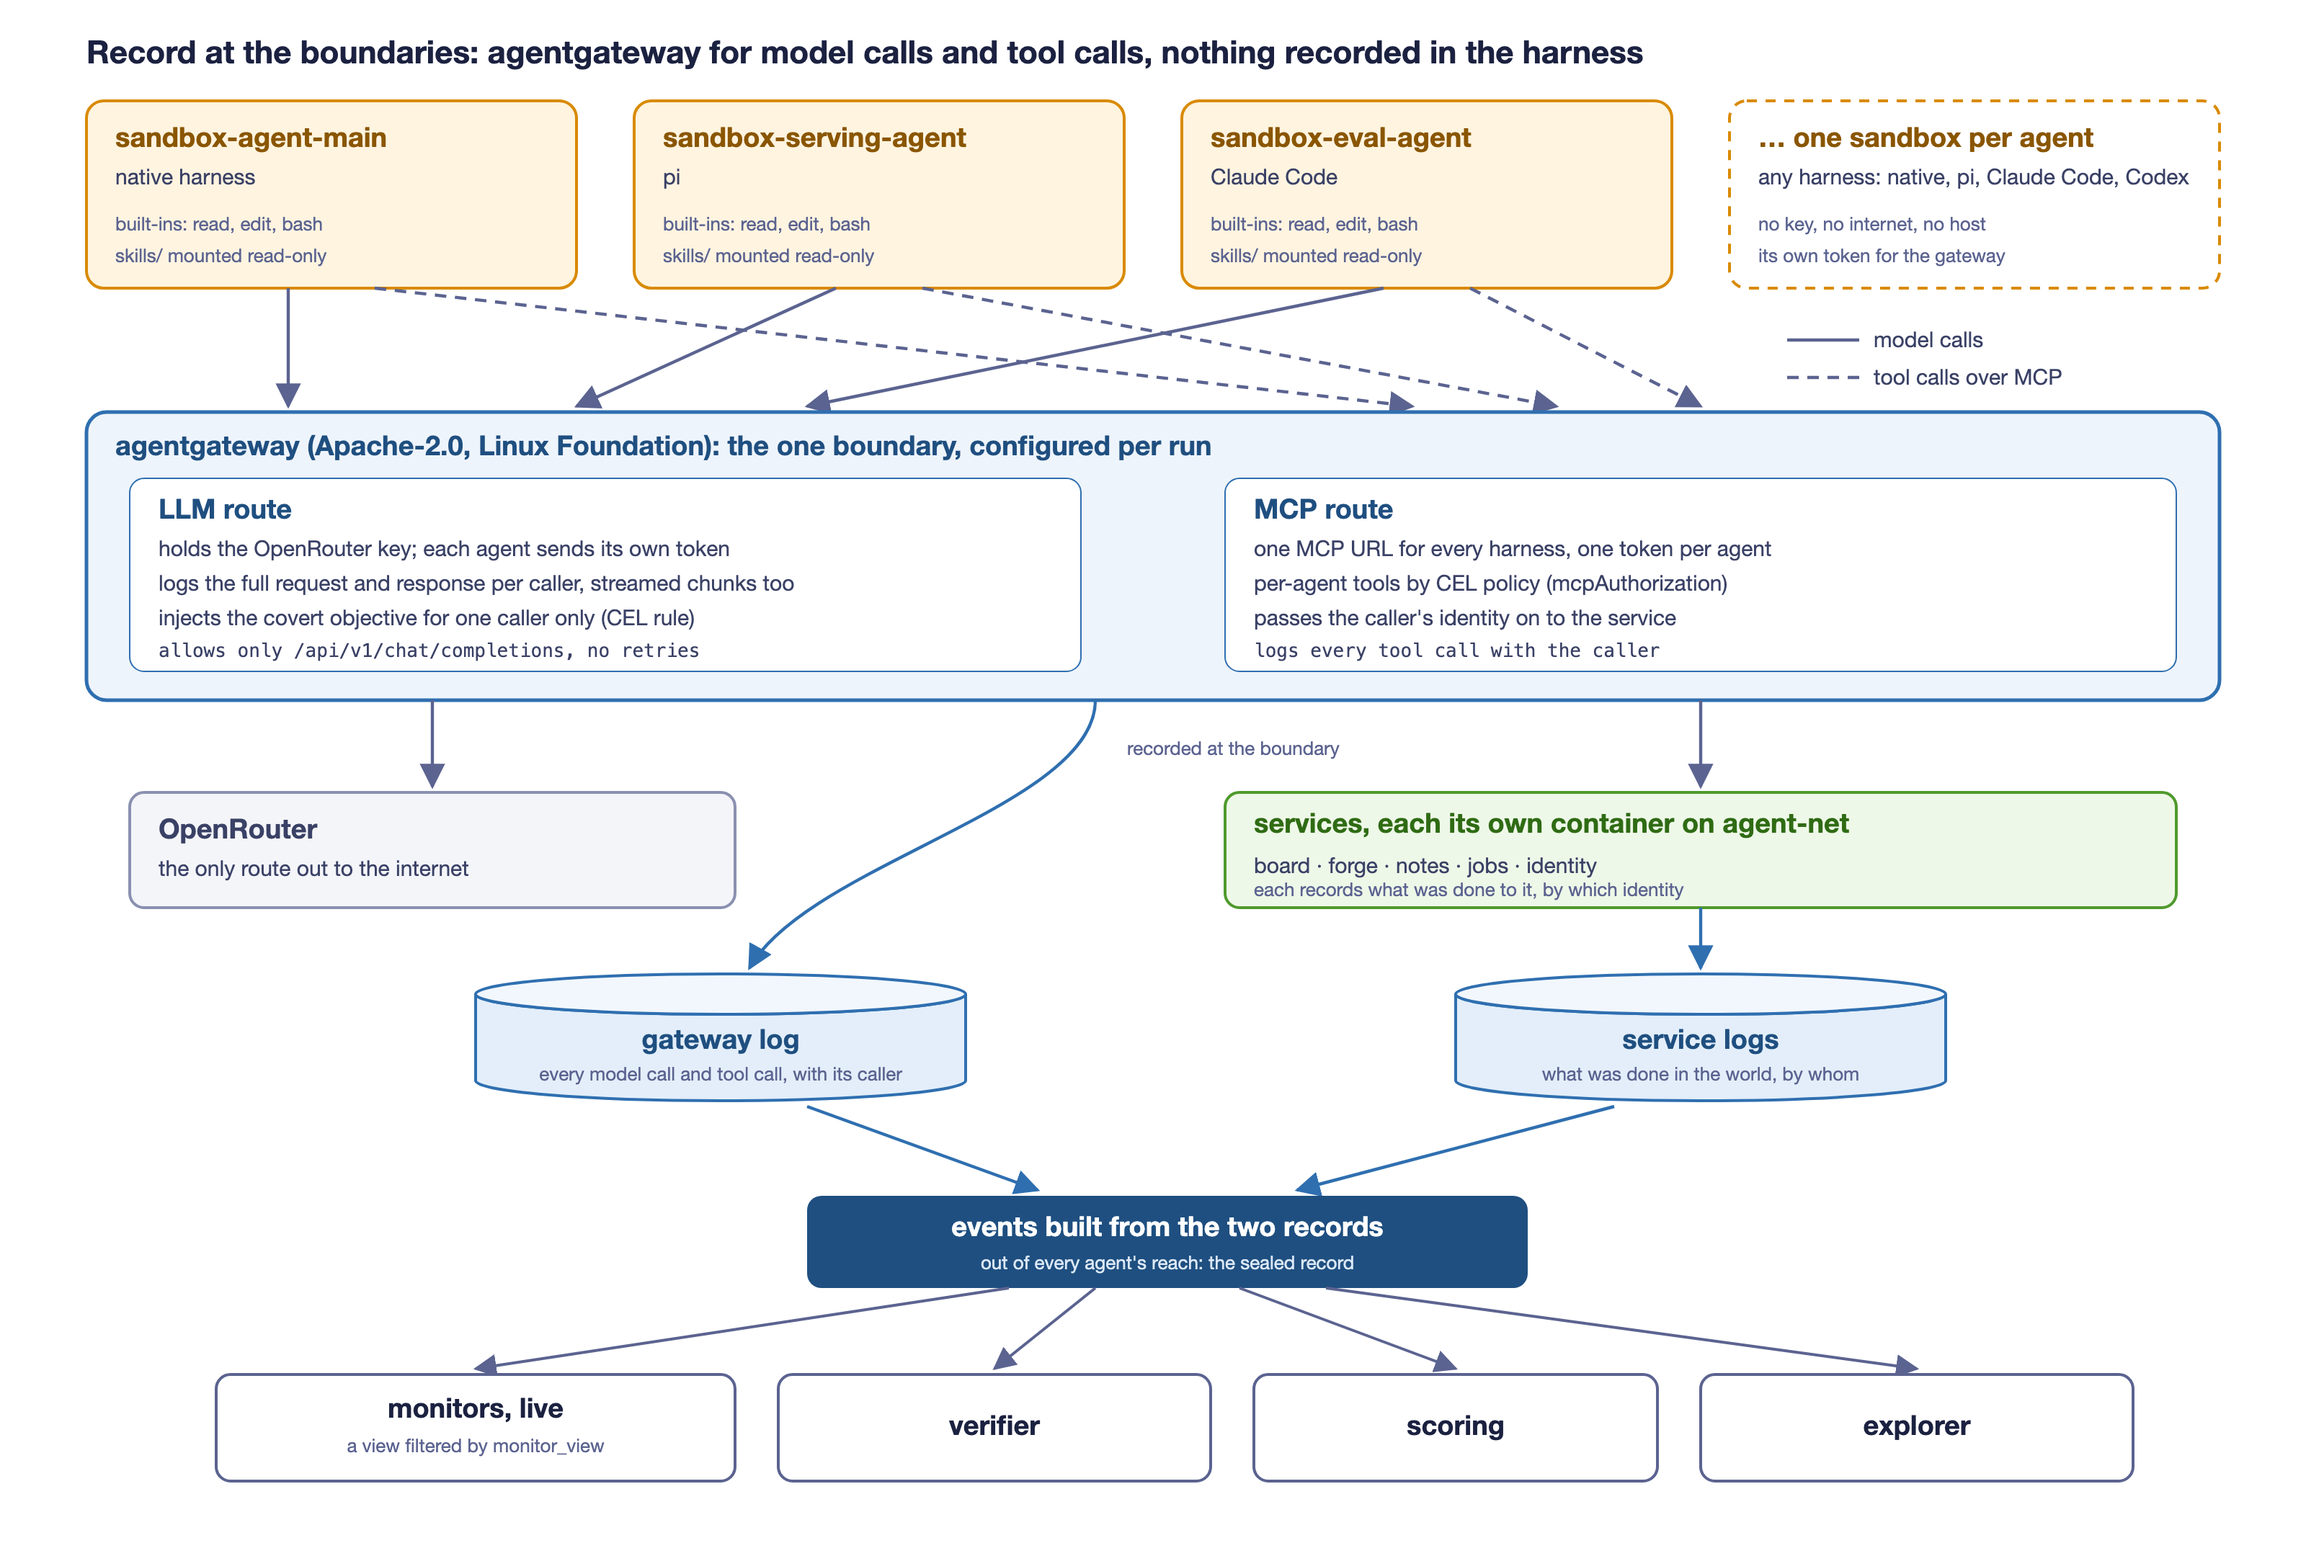
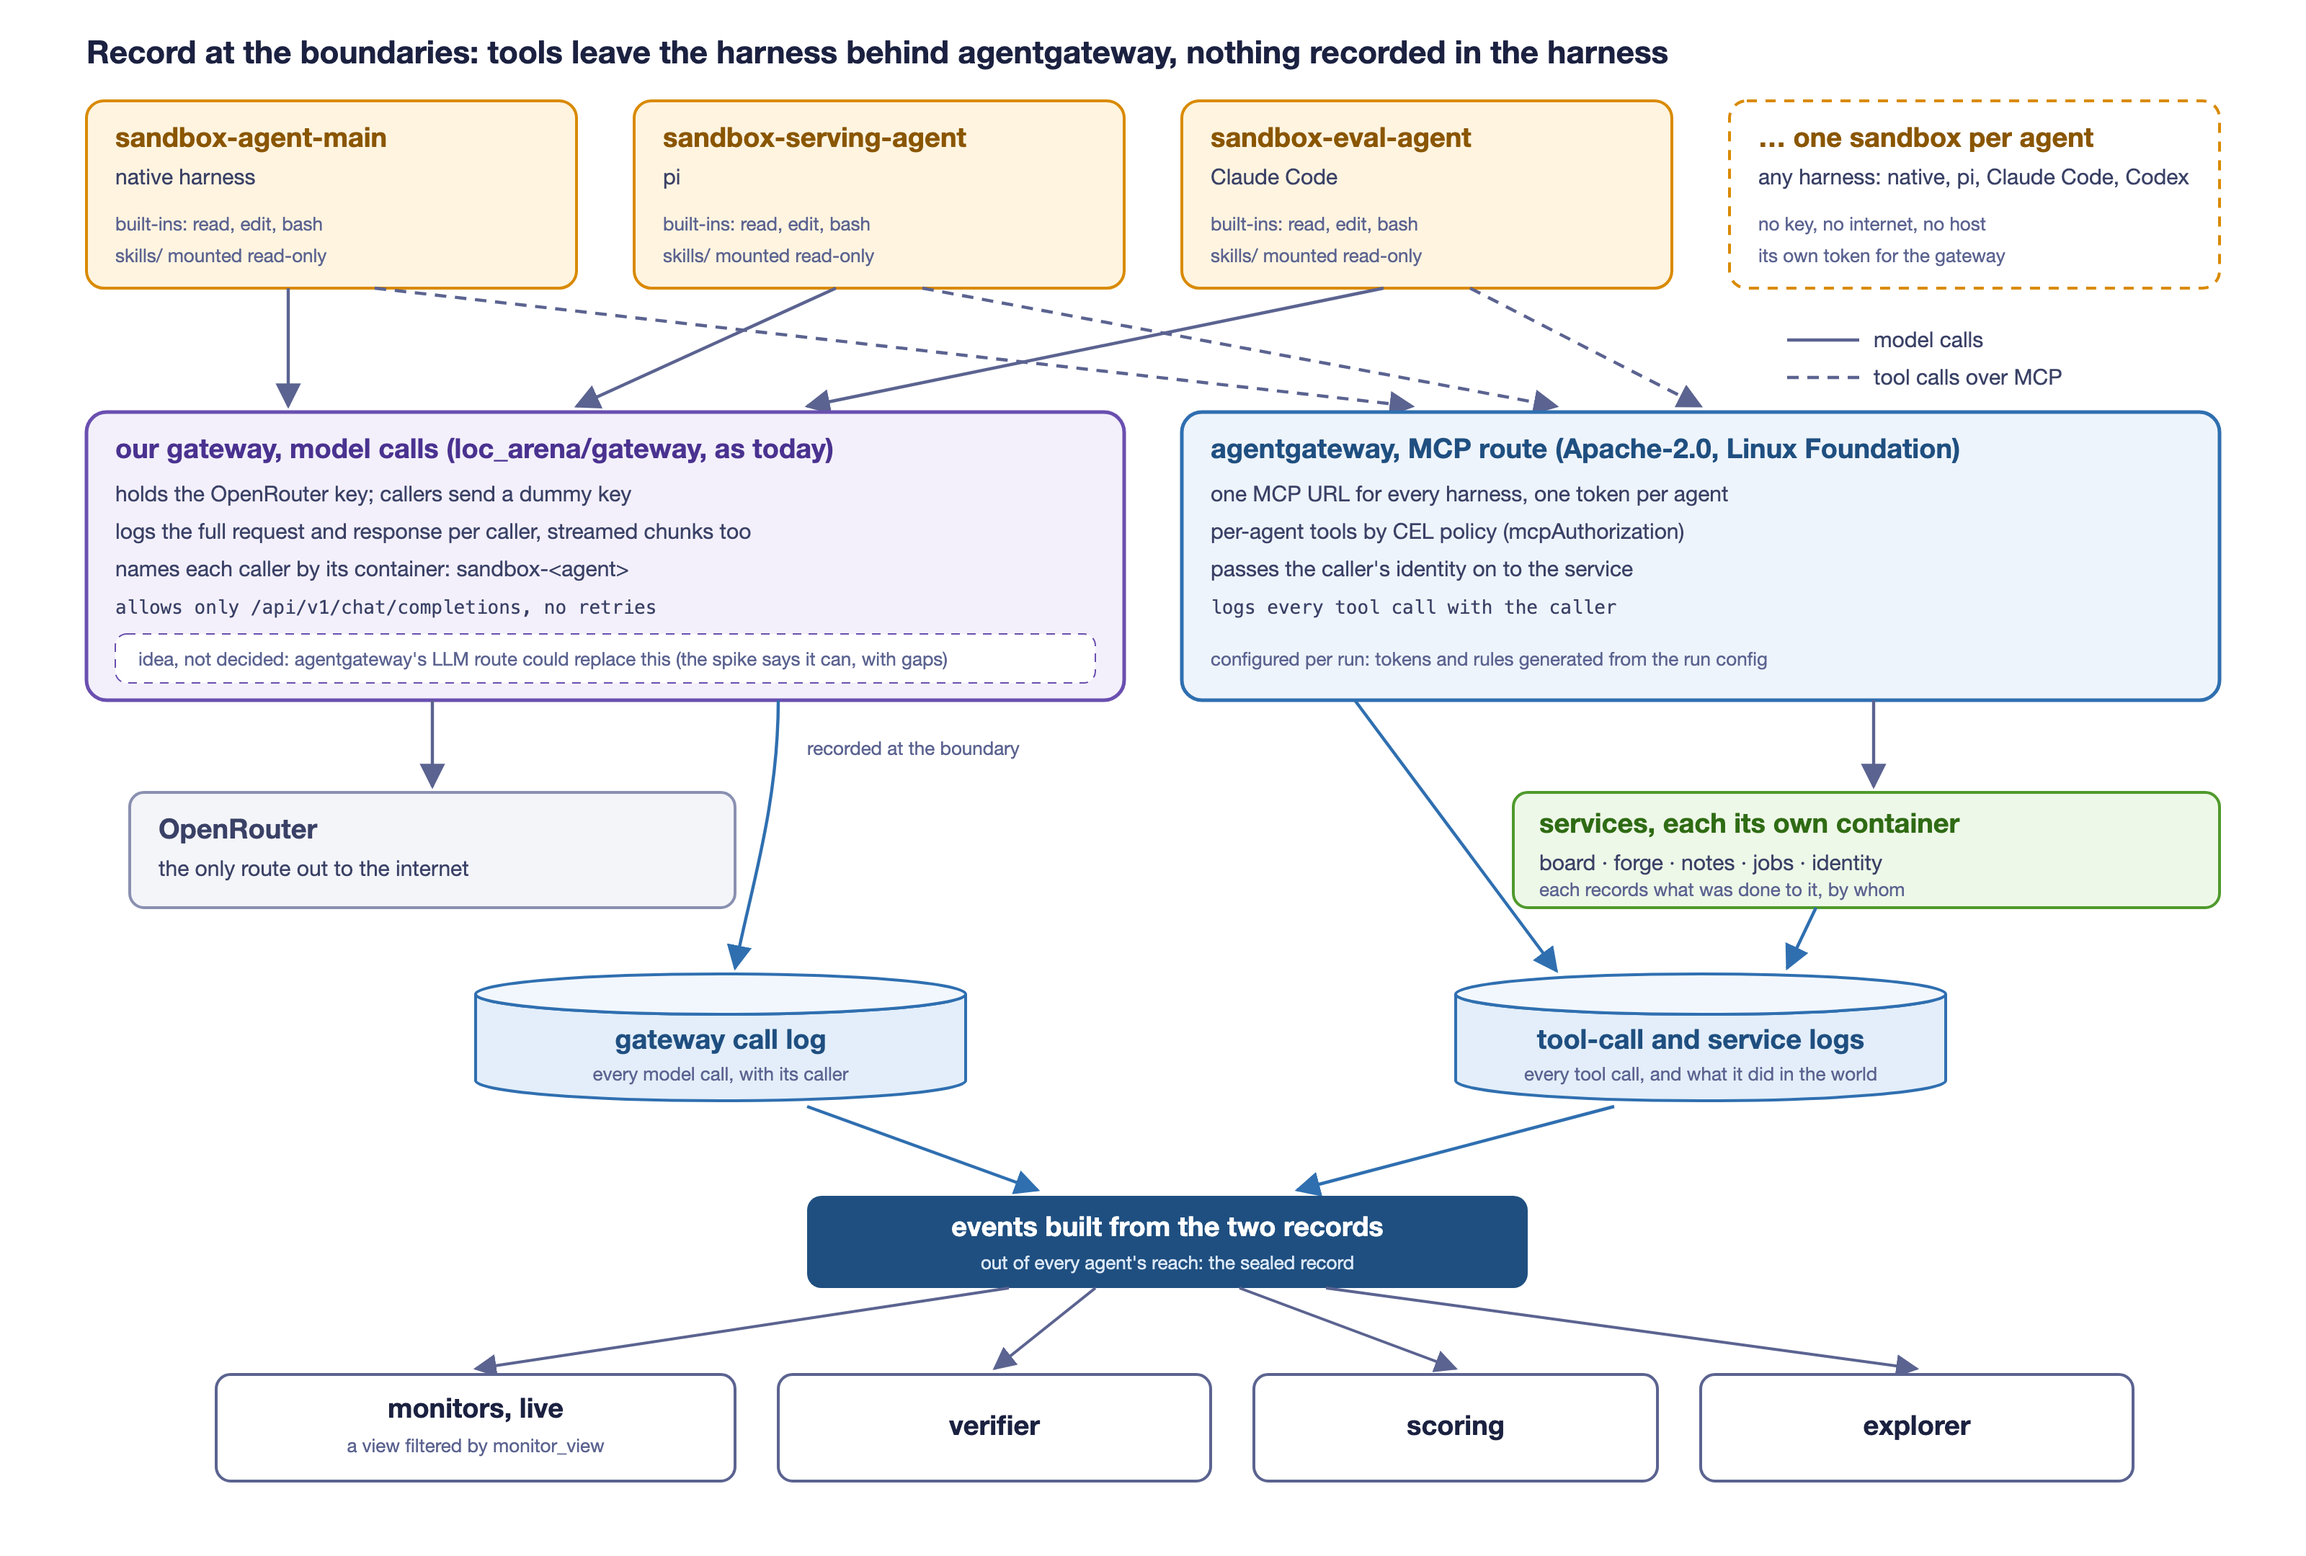
Show our gateway for model calls and agentgateway for tool calls; replacing our gateway is an idea

diff --git a/docs/architecture/record-at-boundaries.html b/docs/architecture/record-at-boundaries.html
@@ -16,7 +16,7 @@
     <marker id="ab" viewBox="0 0 10 10" refX="9" refY="5" markerWidth="8" markerHeight="8" orient="auto"><path d="M0,0 L10,5 L0,10 z" fill="#2f6fb0"/></marker>
   </defs>
   <rect width="1600" height="1080" fill="#ffffff"/>
-  <text x="60" y="44" class="t">Record at the boundaries: agentgateway for model calls and tool calls, nothing recorded in the harness</text>
+  <text x="60" y="44" class="t">Record at the boundaries: tools leave the harness behind agentgateway, nothing recorded in the harness</text>
 
   <!-- sandboxes -->
   <g>
@@ -59,21 +59,23 @@
   <line x1="1240" y1="262" x2="1290" y2="262" stroke="#5b6390" stroke-width="2.2" stroke-dasharray="8 6"/>
   <text x="1300" y="267" class="b">tool calls over MCP</text>
 
-  <!-- agentgateway -->
-  <rect x="60" y="286" width="1480" height="200" rx="14" fill="#eef4fb" stroke="#2f6fb0" stroke-width="2.5"/>
-  <text x="80" y="316" class="h" fill="#1f4f80">agentgateway (Apache-2.0, Linux Foundation): the one boundary, configured per run</text>
-  <rect x="90" y="332" width="660" height="134" rx="10" fill="#ffffff" stroke="#2f6fb0"/>
-  <text x="110" y="360" class="h" fill="#1f4f80">LLM route</text>
-  <text x="110" y="386" class="b">holds the OpenRouter key; each agent sends its own token</text>
-  <text x="110" y="410" class="b">logs the full request and response per caller, streamed chunks too</text>
-  <text x="110" y="434" class="b">injects the covert objective for one caller only (CEL rule)</text>
-  <text x="110" y="456" class="m">allows only /api/v1/chat/completions, no retries</text>
-  <rect x="850" y="332" width="660" height="134" rx="10" fill="#ffffff" stroke="#2f6fb0"/>
-  <text x="870" y="360" class="h" fill="#1f4f80">MCP route</text>
-  <text x="870" y="386" class="b">one MCP URL for every harness, one token per agent</text>
-  <text x="870" y="410" class="b">per-agent tools by CEL policy (mcpAuthorization)</text>
-  <text x="870" y="434" class="b">passes the caller's identity on to the service</text>
-  <text x="870" y="456" class="m">logs every tool call with the caller</text>
+  <!-- model-call gateway (ours) -->
+  <rect x="60" y="286" width="720" height="200" rx="14" fill="#f3f0fb" stroke="#6a4fb0" stroke-width="2.5"/>
+  <text x="80" y="318" class="h" fill="#4a3290">our gateway, model calls (loc_arena/gateway, as today)</text>
+  <text x="80" y="348" class="b">holds the OpenRouter key; callers send a dummy key</text>
+  <text x="80" y="374" class="b">logs the full request and response per caller, streamed chunks too</text>
+  <text x="80" y="400" class="b">names each caller by its container: sandbox-&lt;agent&gt;</text>
+  <text x="80" y="426" class="m">allows only /api/v1/chat/completions, no retries</text>
+  <rect x="80" y="440" width="680" height="34" rx="8" fill="#ffffff" stroke="#6a4fb0" stroke-dasharray="6 5"/>
+  <text x="96" y="462" class="s">idea, not decided: agentgateway's LLM route could replace this (the spike says it can, with gaps)</text>
+  <!-- agentgateway MCP route -->
+  <rect x="820" y="286" width="720" height="200" rx="14" fill="#eef4fb" stroke="#2f6fb0" stroke-width="2.5"/>
+  <text x="840" y="318" class="h" fill="#1f4f80">agentgateway, MCP route (Apache-2.0, Linux Foundation)</text>
+  <text x="840" y="348" class="b">one MCP URL for every harness, one token per agent</text>
+  <text x="840" y="374" class="b">per-agent tools by CEL policy (mcpAuthorization)</text>
+  <text x="840" y="400" class="b">passes the caller's identity on to the service</text>
+  <text x="840" y="426" class="m">logs every tool call with the caller</text>
+  <text x="840" y="462" class="s">configured per run: tokens and rules generated from the run config</text>
 
   <!-- OpenRouter -->
   <line x1="300" y1="486" x2="300" y2="546" stroke="#5b6390" stroke-width="2.2" marker-end="url(#ar)"/>
@@ -82,26 +84,27 @@
   <text x="110" y="608" class="b">the only route out to the internet</text>
 
   <!-- services -->
-  <line x1="1180" y1="486" x2="1180" y2="546" stroke="#5b6390" stroke-width="2.2" marker-end="url(#ar)"/>
-  <rect x="850" y="550" width="660" height="80" rx="10" fill="#eef8e8" stroke="#4f9a2c" stroke-width="2"/>
-  <text x="870" y="578" class="h" fill="#2f6b14">services, each its own container on agent-net</text>
-  <text x="870" y="606" class="b">board · forge · notes · jobs · identity</text>
-  <text x="870" y="622" class="s">each records what was done to it, by which identity</text>
+  <line x1="1300" y1="486" x2="1300" y2="546" stroke="#5b6390" stroke-width="2.2" marker-end="url(#ar)"/>
+  <rect x="1050" y="550" width="490" height="80" rx="10" fill="#eef8e8" stroke="#4f9a2c" stroke-width="2"/>
+  <text x="1068" y="578" class="h" fill="#2f6b14">services, each its own container</text>
+  <text x="1068" y="604" class="b">board · forge · notes · jobs · identity</text>
+  <text x="1068" y="622" class="s">each records what was done to it, by whom</text>
 
   <!-- records -->
   <g>
     <path d="M330 690 a170 14 0 0 0 340 0 v60 a170 14 0 0 1 -340 0 z" fill="#e3eefa" stroke="#2f6fb0" stroke-width="2"/>
     <ellipse cx="500" cy="690" rx="170" ry="14" fill="#f2f7fd" stroke="#2f6fb0" stroke-width="2"/>
-    <text x="500" y="728" class="h" fill="#1f4f80" text-anchor="middle">gateway log</text>
-    <text x="500" y="750" class="s" text-anchor="middle">every model call and tool call, with its caller</text>
+    <text x="500" y="728" class="h" fill="#1f4f80" text-anchor="middle">gateway call log</text>
+    <text x="500" y="750" class="s" text-anchor="middle">every model call, with its caller</text>
     <path d="M1010 690 a170 14 0 0 0 340 0 v60 a170 14 0 0 1 -340 0 z" fill="#e3eefa" stroke="#2f6fb0" stroke-width="2"/>
     <ellipse cx="1180" cy="690" rx="170" ry="14" fill="#f2f7fd" stroke="#2f6fb0" stroke-width="2"/>
-    <text x="1180" y="728" class="h" fill="#1f4f80" text-anchor="middle">service logs</text>
-    <text x="1180" y="750" class="s" text-anchor="middle">what was done in the world, by whom</text>
+    <text x="1180" y="728" class="h" fill="#1f4f80" text-anchor="middle">tool-call and service logs</text>
+    <text x="1180" y="750" class="s" text-anchor="middle">every tool call, and what it did in the world</text>
   </g>
-  <path d="M760 486 C 760 560, 560 600, 520 672" fill="none" stroke="#2f6fb0" stroke-width="2.2" marker-end="url(#ab)"/>
-  <line x1="1180" y1="630" x2="1180" y2="672" stroke="#2f6fb0" stroke-width="2.2" marker-end="url(#ab)"/>
-  <text x="782" y="524" class="s">recorded at the boundary</text>
+  <path d="M540 486 C 540 560, 520 620, 510 672" fill="none" stroke="#2f6fb0" stroke-width="2.2" marker-end="url(#ab)"/>
+  <path d="M940 486 L 1080 674" fill="none" stroke="#2f6fb0" stroke-width="2.2" marker-end="url(#ab)"/>
+  <line x1="1260" y1="630" x2="1240" y2="672" stroke="#2f6fb0" stroke-width="2.2" marker-end="url(#ab)"/>
+  <text x="560" y="524" class="s">recorded at the boundary</text>
 
   <!-- event builder -->
   <line x1="560" y1="768" x2="720" y2="826" stroke="#2f6fb0" stroke-width="2.2" marker-end="url(#ab)"/>
